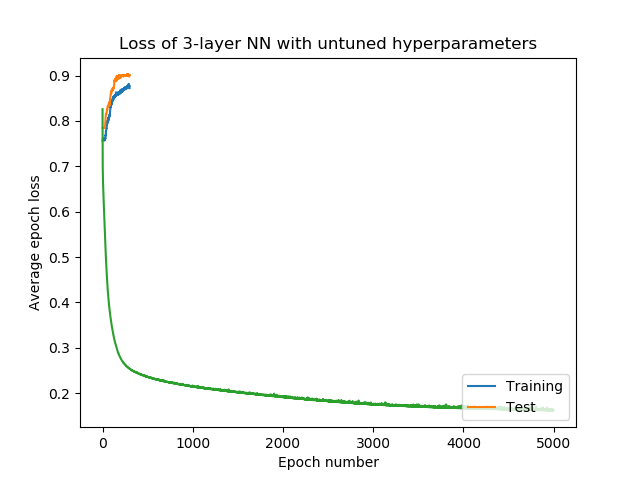
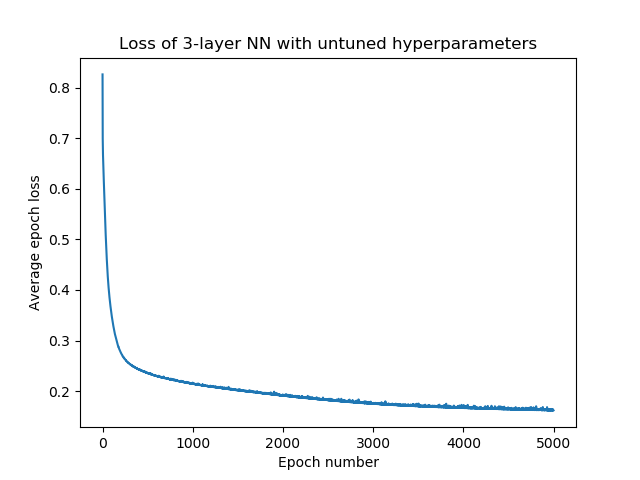
[Fix] Fixed typos

diff --git a/Project 1/Part A/Project 1a.py b/Project 1/Part A/Project 1a.py
@@ -259,6 +259,7 @@ plt.savefig('figures/project_1a_q1b_2.png')
 
 # Plot learning curves
 print('Final loss is {}'.format(losses[-1]))
+plt.clf()
 plt.plot(range(epochs), losses)
 plt.xlabel('Epoch number')
 plt.ylabel('Average epoch loss')
@@ -327,6 +328,7 @@ for batch_size in BATCH_SIZES:
 final_train_acc = []
 final_test_acc = []
 
+plt.clf()
 fig, ax = plt.subplots()
 for idx, batch_size in enumerate(BATCH_SIZES):
     ax.plot(range(epochs), batch_size_test_accs[idx], label="Batch size = " + str(batch_size))
@@ -342,6 +344,7 @@ plt.ylabel('Accuracy')
 plt.title('Learning curves of 3-layer NNs with different batch sizes')
 plt.savefig('figures/project_1a_q2a_1.png')
 
+plt.clf()
 fig2, ax2 = plt.subplots()
 ax2.plot([str(batch_size) for batch_size in BATCH_SIZES], final_train_acc, 'xb-', label="Final Train Accuracy")
 ax2.plot([str(batch_size) for batch_size in BATCH_SIZES], final_test_acc, 'xr-', label="Final Test Accuracy")
@@ -353,6 +356,7 @@ plt.title('Accuracies of 3-layer NNs with different batch sizes')
 plt.savefig('figures/project_1a_q2a_2.png')
 
 # Plot loss
+plt.clf()
 fig, ax = plt.subplots()
 for idx, batch_size in enumerate(BATCH_SIZES):
     ax.plot(range(epochs), batch_losses[idx], label="Batch size = " + str(batch_size))
@@ -366,12 +370,14 @@ plt.savefig('figures/project_1a_q2a_3.png')
 
 # Plot the time taken
 print(batch_times)
+plt.clf()
 plt.plot([str(batch_size) for batch_size in BATCH_SIZES], batch_times)
 plt.xlabel('Batch size')
 plt.ylabel('Average time taken per epoch')
 plt.title('Duration per epoch with diff. batch sizes')
 plt.savefig('figures/project_1a_q2a_4.png')
 
+plt.clf()
 plt.plot(BATCH_SIZES, batch_times, 'xb-')
 plt.xlabel('Batch size')
 plt.ylabel('Average time taken per epoch')
@@ -390,6 +396,7 @@ print('Final training accuracy is {}'.format(train_acc[-1]))
 print('Final test accuracy is {}'.format(test_acc[-1]))
 print('Final loss is {}'.format(loss[-1]))
 
+plt.clf()
 fig, ax = plt.subplots()
 ax.plot(range(epochs), train_acc, label='Training')
 ax.plot(range(epochs), test_acc, label='Test')
@@ -457,6 +464,7 @@ for neuron_num in NEURON_NUMS:
 final_train_acc = []
 final_test_acc = []
 
+plt.clf()
 fig, ax = plt.subplots()
 for idx, neuron_num in enumerate(NEURON_NUMS):
     ax.plot(range(epochs), num_neuron_test_accs[idx], label="Number of neurons = " + str(neuron_num))
@@ -472,6 +480,7 @@ plt.ylabel('Accuracy')
 plt.title('Learning Curves of 3-layer NNs with diff. neuron numbers')
 plt.savefig('figures/project_1a_q3a_1.png')
 
+plt.clf()
 fig2, ax2 = plt.subplots()
 ax2.plot([str(neuron_num) for neuron_num in NEURON_NUMS], final_train_acc, 'xb-', label="Final Train Accuracy")
 ax2.plot([str(neuron_num) for neuron_num in NEURON_NUMS], final_test_acc, 'xr-', label="Final Test Accuracy")
@@ -483,6 +492,7 @@ plt.title('Accuracies of 3-layer NNs with diff. neuron numbers')
 plt.savefig('figures/project_1a_q3a_2.png')
 
 # Plot loss
+plt.clf()
 fig, ax = plt.subplots()
 for idx, neuron_num in enumerate(NEURON_NUMS):
     ax.plot(range(epochs), num_neuron_losses[idx], label="Number of neurons = " + str(neuron_num))
@@ -506,6 +516,7 @@ print('Final training accuracy is {}'.format(train_acc[-1]))
 print('Final test accuracy is {}'.format(test_acc[-1]))
 print('Final loss is {}'.format(loss[-1]))
 
+plt.clf()
 fig, ax = plt.subplots()
 ax.plot(range(epochs), train_acc, label='Training')
 ax.plot(range(epochs), test_acc, label='Test')
@@ -573,6 +584,7 @@ for decay_parameter in DECAY_PARAMETERS:
 final_train_acc = []
 final_test_acc = []
 
+plt.clf()
 fig, ax = plt.subplots()
 for idx, decay_parameter in enumerate(DECAY_PARAMETERS):
     ax.plot(range(epochs), decay_parameter_test_accs[idx], label="Decay parameter = " + str(decay_parameter))
@@ -588,6 +600,7 @@ plt.ylabel('Accuracy')
 plt.title('Learning Curves of 3-layer NNs with different decay params')
 plt.savefig('figures/project_1a_q4a_1.png')
 
+plt.clf()
 fig2, ax2 = plt.subplots()
 ax2.plot([str(decay_parameter) for decay_parameter in DECAY_PARAMETERS], final_train_acc, 'xb-', label="Final Train Accuracy")
 ax2.plot([str(decay_parameter) for decay_parameter in DECAY_PARAMETERS], final_test_acc, 'xr-', label="Final Test Accuracy")
@@ -599,6 +612,7 @@ plt.title('Accuracies of 3-layer NNs with different decay params')
 plt.savefig('figures/project_1a_q4a_2.png')
 
 # Plot loss
+plt.clf()
 fig, ax = plt.subplots()
 for idx, decay_parameter in enumerate(DECAY_PARAMETERS):
     print("Decay parameter = {} has loss {} after 5000 epochs.".format(decay_parameter, decay_parameter_losses[idx][-1]))
@@ -622,6 +636,7 @@ print('Final training accuracy is {}'.format(train_acc[-1]))
 print('Final test accuracy is {}'.format(test_acc[-1]))
 print('Final loss is {}'.format(loss[-1]))
 
+plt.clf()
 fig, ax = plt.subplots()
 ax.plot(range(epochs), train_acc, label='Training')
 ax.plot(range(epochs), test_acc, label='Test')
@@ -638,6 +653,7 @@ train_acc_4, test_acc_4, loss_4 = training(cv_and_trainX, cv_and_trainY, num_cla
                                            batch_size=32, no_of_layers=4, testX=testX, testY=testY, use_small_dataset=False)
 
 # Plot learning curves
+plt.clf()
 fig, ax = plt.subplots()
 print('Final training accuracy of optimized 3-layer NN is {}'.format(train_acc[-1]))
 print('Final test accuracy of optimized 3-layer NN is {}'.format(test_acc[-1]))
@@ -649,6 +665,7 @@ plt.ylabel('Accuracy')
 plt.title('Learning curve of optimized 3-layer NN')
 plt.savefig('figures/project_1a_q5_1.png')
 
+plt.clf()
 fig2, ax2 = plt.subplots()
 print('Final training accuracy of 4-layer NN is {}'.format(train_acc_4[-1]))
 print('Final test accuracy of 4-layer NN is {}'.format(test_acc_4[-1]))
@@ -660,6 +677,7 @@ plt.ylabel('Accuracy')
 plt.title('Learning curve of 4-layer NN')
 plt.savefig('figures/project_1a_q5_2.png')
 
+plt.clf()
 fig3, ax3 = plt.subplots()
 print('Final loss of 3-layer NN is {}'.format(loss[-1]))
 print('Final loss of 4-layer NN is {}'.format(loss_4[-1]))
@@ -671,6 +689,7 @@ plt.ylabel('Average epoch loss')
 plt.title('Loss of optimized 3-layer vs 4-layer NN')
 plt.savefig('figures/project_1a_q5_3.png')
 
+plt.clf()
 fig4, ax4 = plt.subplots()
 print('Final test accuracy of optimized 3-layer NN is {}'.format(test_acc[-1]))
 print('Final test accuracy of 4-layer NN is {}'.format(test_acc_4[-1]))
@@ -687,6 +706,7 @@ train_acc_4_opt, test_acc_4_opt, loss_4_opt = training(cv_and_trainX, cv_and_tra
                                                        decay_parameter=OPTIMAL_DECAY_PARAMETER,batch_size=OPTIMAL_BATCH_SIZE,
                                                        no_of_layers=4, testX=testX, testY=testY, use_small_dataset=False)
 
+plt.clf()
 fig, ax = plt.subplots()
 print('Final training accuracy of 4-layer NN is {}'.format(train_acc_4_opt[-1]))
 print('Final test accuracy of 4-layer NN is {}'.format(test_acc_4_opt[-1]))
@@ -698,6 +718,7 @@ plt.ylabel('Accuracy')
 plt.title('Learning curve of optimized 4-layer NN')
 plt.savefig('figures/project_1a_q5_5.png')
 
+plt.clf()
 fig2, ax2 = plt.subplots()
 print('Final loss of optimized 3-layer NN is {}'.format(loss[-1]))
 print('Final loss of optimized 4-layer NN is {}'.format(loss_4_opt[-1]))
@@ -709,6 +730,7 @@ plt.ylabel('Average epoch loss')
 plt.title('Loss of optimized 3-layer vs optimized 4-layer NN')
 plt.savefig('figures/project_1a_q5_6.png')
 
+plt.clf()
 fig3, ax3 = plt.subplots()
 print('Final test accuracy of optimized 3-layer NN is {}'.format(test_acc[-1]))
 print('Final test accuracy of optimized 4-layer NN is {}'.format(test_acc_4_opt[-1]))
